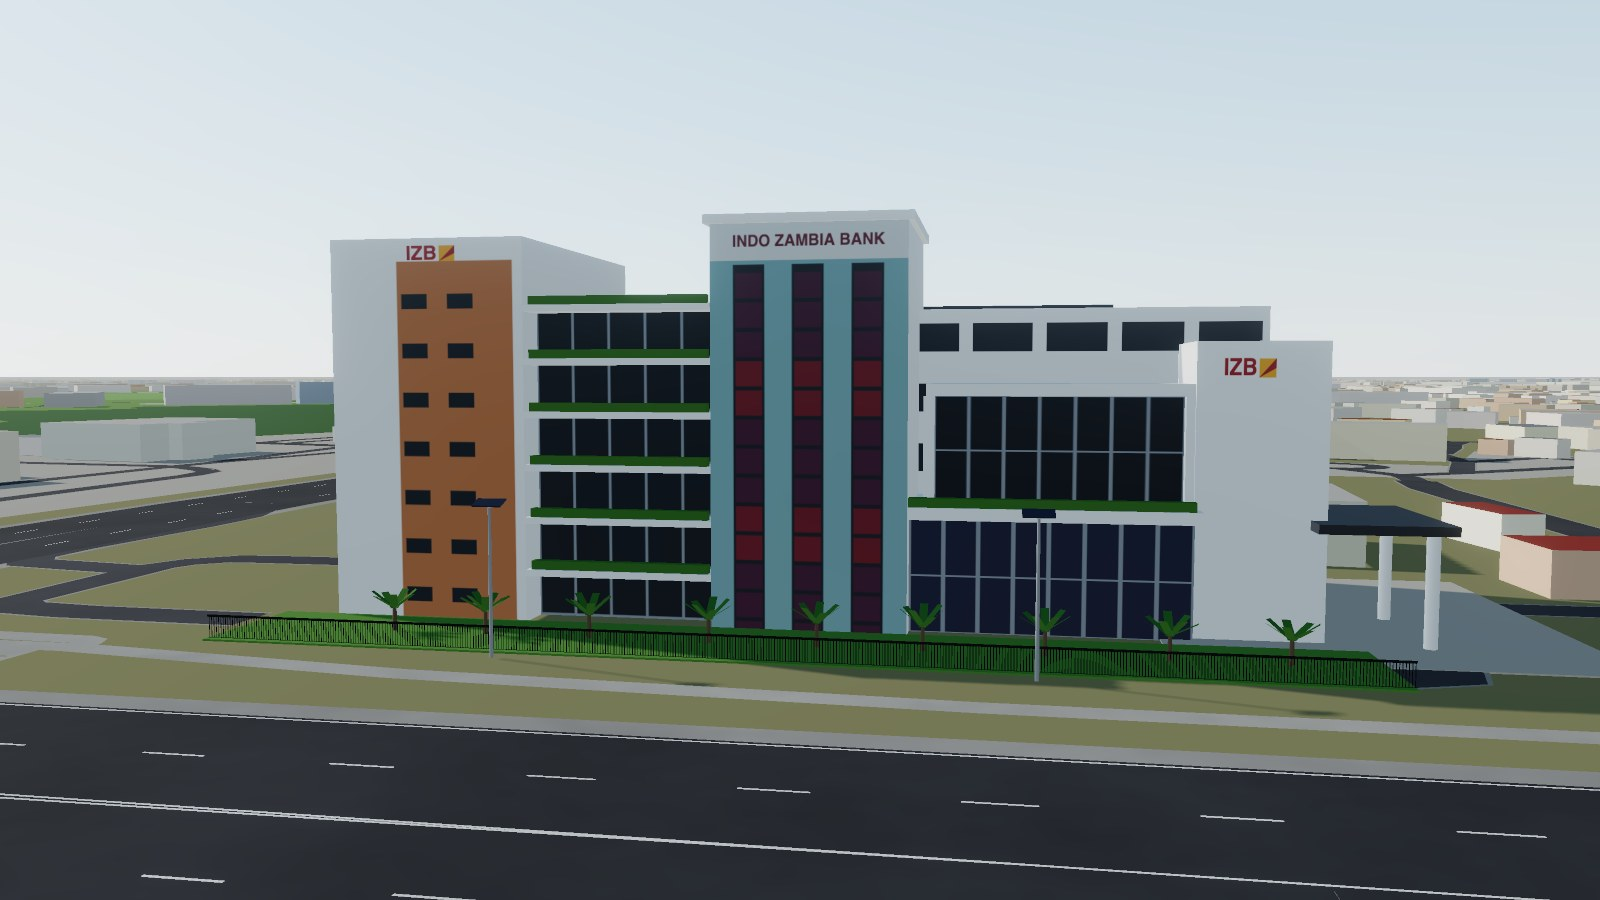
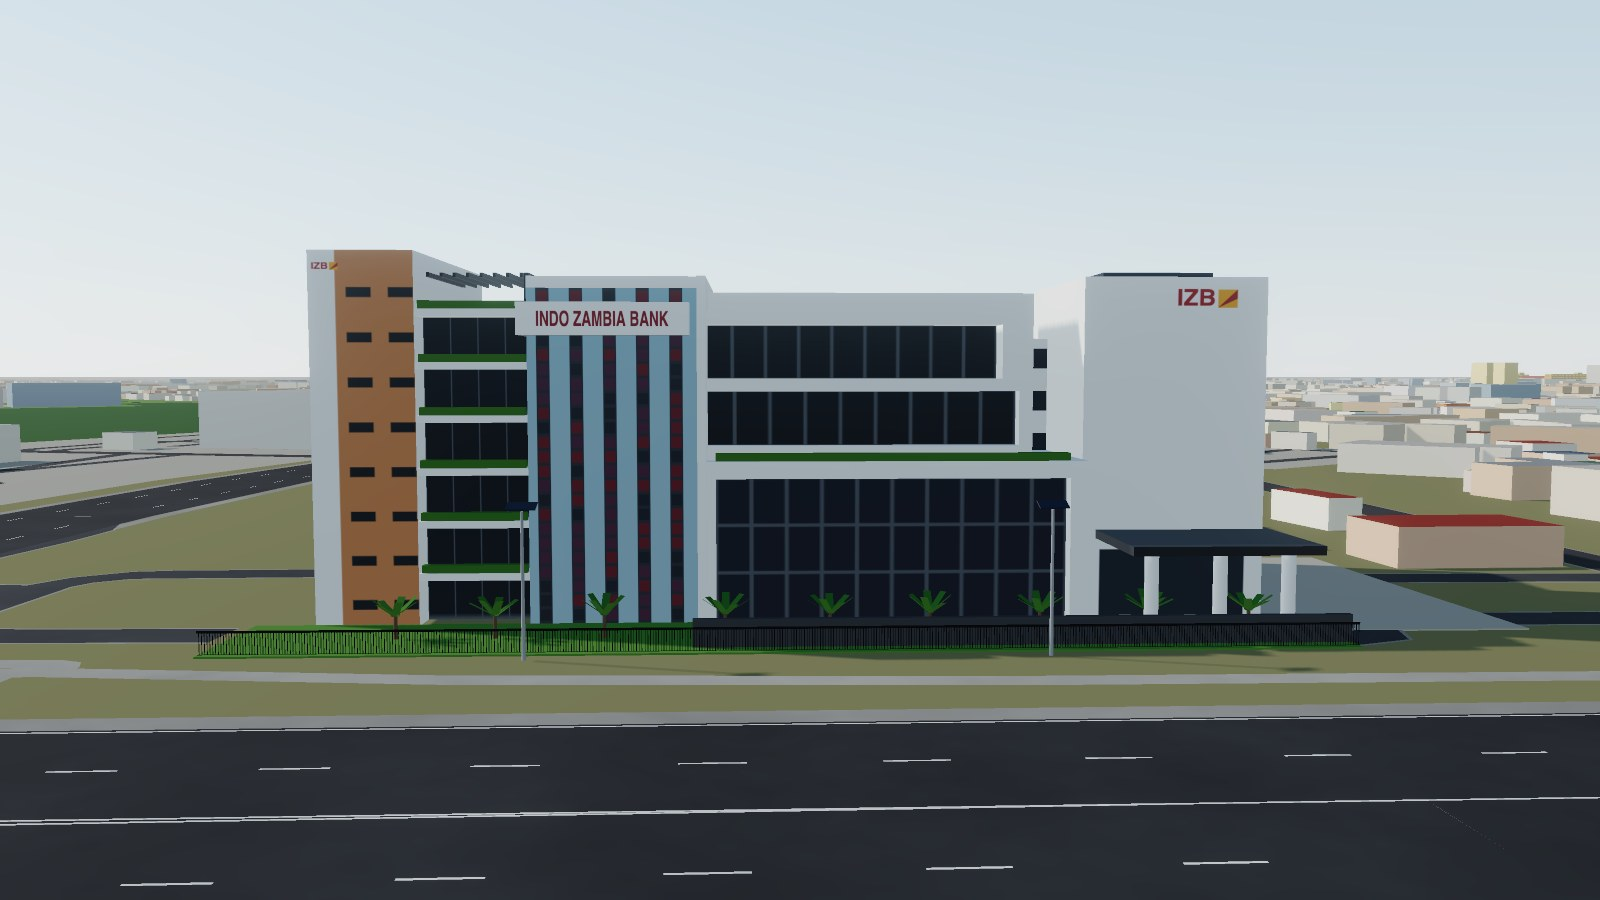
Indo Zambia Bank: rebuild to the street elevation in the founder's photos
Measure the front off the photos: a narrow tall terracotta corner block, the
terraced floors under a pergola, the blue tower with its projecting name band,
the wide glass block (a framed two-storey glass box under two cantilevered
trays of dark glazing), and the white entrance tower with the canopy in front
on three columns; add the dark boundary wall behind the railing.

diff --git a/src/landmarks/indo-zambia-bank.js b/src/landmarks/indo-zambia-bank.js
@@ -1,12 +1,14 @@
 // Indo Zambia Bank head office, corner of Great East Road and Addis Ababa
 // Drive, Rhodespark. A long building along Great East Road, stepping in
-// height. From the north-east (the Addis Ababa Drive junction): a white
-// corner block with a tall terracotta panel and the IZB logo (its end wall
-// facing the junction is white, split by a diagonal terracotta field);
-// terraced floors whose white slab edges carry planted hedges; a teal tower
-// with maroon-glazed window columns under the INDO ZAMBIA BANK fascia; a
-// lower glass block framed in white with a planted slab; and a white tower at
-// the south-west end over the entrance canopy.
+// height. From the north-east (the Addis Ababa Drive junction): a narrow
+// tall corner block, a white edge with the IZB logo and a tan terracotta face
+// with slot windows (its end wall is white, split by a diagonal terracotta
+// field); terraced floors of white slabs with hedges on their edges under a
+// slatted pergola; a tower of pale blue panels between columns of dark and
+// maroon glazing, with a projecting white INDO ZAMBIA BANK band; the widest
+// part, a two-storey glass box in a thick white frame with a hedge on top,
+// under two cantilevered white trays of dark glazing; and a white tower with
+// the IZB logo behind a dark canopy on white columns at the entrance.
 // A black railing, grass verge, palms and solar street lights line the road.
 // Sources: docs/landmarks/indo-zambia-bank.md.
 import * as THREE from 'three';
@@ -23,11 +25,13 @@ const ANGLE = 0.7206; // local +x = (0.752, -0.660) in world x/z
 const L = 66, D = 27, FLOOR = 3.6;
 
 // Front segments, u ranges along the road.
-// Seen from the road, north-east is on the left: the photos read right to left.
-const ENTRY = [0, 8], GLASS = [8, 26], TOWER = [26, 39], TERRACE = [39, 52], CORNER = [52, 66];
+// Seen from the road, north-east is on the left: the photos read right to
+// left. u ranges, measured off the founder's street elevation (~66 m).
+const ENTRY = [0, 13], GLASS = [13, 40], TOWER = [40, 51.5], TERRACE = [51.5, 59], CORNER = [59, 66];
 
-// ---------- textures (whole faces, UV 0..1; canvas y down) ----------
-const MAROON = '#7a2638', TEAL = '#8fbcc0', WHITE = '#f2f1ec', TERRA = '#c9804f';
+// ---------- textures (whole faces, UV 0..1; canvas y down; for a front
+// (-z) face the canvas left is the north-east end) ----------
+const WHITE = '#f2f1ec', TERRA = '#cf8c5a', BLUE = '#a8cfe0';
 
 function izbLogo(g, x, y, s) {
   g.fillStyle = '#b3242c';
@@ -46,24 +50,27 @@ function izbLogo(g, x, y, s) {
   g.fill();
 }
 function slots(g, x0, x1, y0, y1, rows, w) {
-  g.fillStyle = '#26303a';
+  g.fillStyle = '#2a2f36';
   for (let r = 0; r < rows; r++) {
-    const y = y0 + ((y1 - y0) * (r + 0.35)) / rows;
-    for (let x = x0 + 6; x + w < x1; x += w * 1.8) g.fillRect(x, y, w, (y1 - y0) / rows * 0.3);
+    const y = y0 + ((y1 - y0) * (r + 0.4)) / rows;
+    for (let x = x0 + 8; x + w < x1; x += w * 1.7) g.fillRect(x, y, w, ((y1 - y0) / rows) * 0.22);
   }
 }
-const swFront = () => canvasTex(256, 512, (g, w, h) => {
-  g.fillStyle = WHITE;
+const cornerFront = () => canvasTex(128, 512, (g, w, h) => {
+  g.fillStyle = TERRA;
   g.fillRect(0, 0, w, h);
-  g.fillStyle = TERRA; // the tall terracotta panel, with slot windows
-  g.fillRect(w * 0.35, h * 0.06, w * 0.6, h * 0.94);
-  slots(g, w * 0.35, w * 0.95, h * 0.1, h, 7, 34);
-  izbLogo(g, w * 0.4, h * 0.015, 26);
+  g.fillStyle = WHITE; // the white edge at the north-east corner
+  g.fillRect(0, 0, w * 0.26, h);
+  slots(g, w * 0.3, w, h * 0.05, h, 8, 30);
+  g.save();
+  g.translate(w * 0.13, h * 0.03);
+  izbLogo(g, -12, 0, 13);
+  g.restore();
 }, { repeat: false });
-const swEnd = () => canvasTex(512, 512, (g, w, h) => {
+const cornerEnd = () => canvasTex(512, 512, (g, w, h) => {
   g.fillStyle = WHITE;
   g.fillRect(0, 0, w, h);
-  g.fillStyle = TERRA; // diagonal field, lower right
+  g.fillStyle = TERRA;
   g.beginPath();
   g.moveTo(w, h * 0.05);
   g.lineTo(w, h);
@@ -74,45 +81,40 @@ const swEnd = () => canvasTex(512, 512, (g, w, h) => {
   izbLogo(g, w * 0.12, h * 0.08, 46);
 }, { repeat: false });
 const towerFront = () => canvasTex(256, 512, (g, w, h) => {
-  g.fillStyle = TEAL;
+  // pale blue panels between five columns of dark frames with maroon panes
+  g.fillStyle = BLUE;
   g.fillRect(0, 0, w, h);
-  g.fillStyle = WHITE;
-  g.fillRect(0, 0, w, h * 0.09);
-  g.fillStyle = MAROON;
-  g.font = 'bold 20px sans-serif';
-  g.textAlign = 'center';
-  g.textBaseline = 'middle';
-  g.fillText('INDO ZAMBIA BANK', w / 2, h * 0.045);
-  for (const x of [0.12, 0.42, 0.72]) {
-    g.fillStyle = '#2a2f3a';
-    g.fillRect(w * x, h * 0.1, w * 0.16, h * 0.9);
-    for (let y = h * 0.12; y < h; y += h / 14) {
-      g.fillStyle = (Math.floor(y) % 3) ? '#5b2a4a' : '#8c2a3a';
-      g.fillRect(w * x + 3, y, w * 0.16 - 6, h / 14 - 5);
+  const r = rng(8);
+  for (let c = 0; c < 5; c++) {
+    const x = 10 + c * 50;
+    g.fillStyle = '#39414c';
+    g.fillRect(x + 4, 0, 20, h);
+    for (let y = 4; y < h; y += 22) {
+      g.fillStyle = r() < 0.4 ? '#7b2c3c' : r() < 0.5 ? '#5d3552' : '#2b3340';
+      g.fillRect(x + 6, y, 16, 17);
     }
   }
 }, { repeat: false });
-const glazing = (tint = '#1f2a36', cols = 6, rows = 2) => canvasTex(256, 256, (g, w, h) => {
+const curtain = (cols, rows, tint = '#1d2632') => canvasTex(256, 128, (g, w, h) => {
   g.fillStyle = tint;
   g.fillRect(0, 0, w, h);
-  g.fillStyle = '#9aa4ad';
-  for (let c = 0; c <= cols; c++) g.fillRect((c * w) / cols - 2, 0, 4, h);
-  for (let r = 0; r <= rows; r++) g.fillRect(0, (r * h) / rows - 2, w, 4);
+  g.fillStyle = '#5d6772';
+  for (let c = 0; c <= cols; c++) g.fillRect((c * w) / cols - 1.5, 0, 3, h);
+  for (let r = 0; r <= rows; r++) g.fillRect(0, (r * h) / rows - 1.5, w, 3);
 }, { repeat: false });
-const neFront = () => canvasTex(256, 512, (g, w, h) => {
+const entryFront = () => canvasTex(256, 512, (g, w, h) => {
   g.fillStyle = WHITE;
   g.fillRect(0, 0, w, h);
-  izbLogo(g, w * 0.2, h * 0.05, 40);
+  izbLogo(g, w * 0.5, h * 0.03, 34);
+  g.fillStyle = '#2a3440'; // glazed ground floor behind the canopy
+  g.fillRect(w * 0.1, h * 0.8, w * 0.8, h * 0.2);
 }, { repeat: false });
-const officeSide = () => {
-  const t = canvasTex(128, 128, (g, w, h) => {
-    g.fillStyle = WHITE;
-    g.fillRect(0, 0, w, h);
-    g.fillStyle = '#2a3440';
-    g.fillRect(12, 30, w - 24, 60);
-  });
-  return t;
-};
+const officeSide = () => canvasTex(128, 128, (g, w, h) => {
+  g.fillStyle = WHITE;
+  g.fillRect(0, 0, w, h);
+  g.fillStyle = '#2a3440';
+  g.fillRect(12, 30, w - 24, 60);
+});
 
 export function buildIndoZambiaBank() {
   const group = new THREE.Group();
@@ -122,76 +124,99 @@ export function buildIndoZambiaBank() {
   const put = (m, conf, o) => group.add(tag(m, conf, o));
   const white = new THREE.MeshStandardMaterial({ color: 0xf2f1ec, roughness: 0.6 });
   const roof = new THREE.MeshStandardMaterial({ color: 0x9c9a94, roughness: 0.9 });
-  const hedge = new THREE.MeshStandardMaterial({ color: 0x4e7d2c, roughness: 1 });
+  const hedge = new THREE.MeshStandardMaterial({ color: 0x4e7d2c, roughness: 1, flatShading: true });
+  const dark = new THREE.MeshStandardMaterial({ color: 0x33373d, roughness: 0.5, metalness: 0.4 });
   const glows = [];
   const glow = (tex, o) => {
-    const m = glowing(tex, { roughness: 0.3, metalness: 0.3, ...o });
+    const m = glowing(tex, { roughness: 0.2, metalness: 0.4, ...o });
     glows.push(m);
     return m;
   };
-  // a box between u0..u1, v0..v1, y0..y1 with per-face materials
-  // [+x, -x, top, bottom, +z (back), -z (front)]
+  // box over u0..u1, v0..v1, y0..y1; materials [+x, -x, top, bottom, +z, -z(front)]
   const box = (u0, u1, v0, v1, y0, y1, mats) => {
     const m = new THREE.Mesh(new THREE.BoxGeometry(u1 - u0, y1 - y0, v1 - v0), mats);
     m.position.set((u0 + u1) / 2, (y0 + y1) / 2, (v0 + v1) / 2);
     return m;
   };
-  const faces = (front, rest = white, top = roof) => [rest, rest, top, top, rest, front];
+  const front = (mat, rest = white) => [rest, rest, roof, roof, rest, mat];
+  const hedgeOn = (u0, u1, v, y) => put(box(u0 + 0.2, u1 - 0.2, v, v + 0.7, y, y + 0.55, hedge), 'high');
 
-  // the body behind the front blocks, with office windows
+  // the body behind, with office windows
   const side = officeSide();
-  side.repeat.set(12, 5);
+  side.repeat.set(12, 6);
   const body = new THREE.MeshStandardMaterial({ map: side, roughness: 0.7 });
-  put(box(2, L - 2, 10, D, 0, 6 * FLOOR, [body, body, roof, roof, body, body]), 'med');
+  put(box(2, L - 2, 12, D, 0, 20, [body, body, roof, roof, body, body]), 'med');
 
-  // north-east corner block: terracotta panel, diagonal end wall facing the junction
-  const swH = 7 * FLOOR + 1;
-  put(box(CORNER[0], CORNER[1], 0, 22, 0, swH, [new THREE.MeshStandardMaterial({ map: swEnd(), roughness: 0.7 }), white, roof, roof, white, new THREE.MeshStandardMaterial({ map: swFront(), roughness: 0.7 })]), 'high');
+  // north-east corner block: the tallest part
+  const cH = 25.5;
+  put(box(CORNER[0], CORNER[1], 0, 20, 0, cH, [new THREE.MeshStandardMaterial({ map: cornerEnd(), roughness: 0.7 }), white, roof, roof, white, new THREE.MeshStandardMaterial({ map: cornerFront(), roughness: 0.7 })]), 'high');
 
-  // terraced floors: recessed glazing, white slabs with hedges on their edges
+  // terraced floors: recessed glazing, white slabs with hedges, pergola on top
   const tH = 6 * FLOOR;
-  put(box(TERRACE[0], TERRACE[1], 2.5, 12, 0, tH, faces(glow(glazing('#1d2833', 5, 6)))), 'high');
+  put(box(TERRACE[0], TERRACE[1], 2.2, 12, 0, tH, front(glow(curtain(4, 6)))), 'high');
   for (let f = 1; f <= 6; f++) {
     const y = f * FLOOR;
-    put(box(TERRACE[0], TERRACE[1], 0, 2.6, y - 0.45, y, white), 'high');
-    put(box(TERRACE[0] + 0.3, TERRACE[1] - 0.3, 0.2, 0.9, y, y + 0.6, hedge), 'high');
+    put(box(TERRACE[0], TERRACE[1], 0, 2.4, y - 0.5, y, white), 'high');
+    hedgeOn(TERRACE[0], TERRACE[1], 0.1, y);
   }
+  for (let u = TERRACE[0] + 0.4; u < TERRACE[1]; u += 0.9) put(box(u, u + 0.2, 1, 11, tH + 2.2, tH + 2.5, dark), 'med'); // pergola slats
+  put(box(TERRACE[0], TERRACE[0] + 0.3, 1, 11, tH, tH + 2.5, dark), 'med');
 
-  // teal tower with maroon window columns and the name fascia
-  const towerH = 7 * FLOOR + 1.5;
-  put(box(TOWER[0], TOWER[1], 0, 14, 0, towerH, faces(glow(towerFront()))), 'high');
-  put(box(TOWER[0] - 0.4, TOWER[1] + 0.4, -0.3, 14, towerH, towerH + 0.6, white), 'high');
+  // tower: pale blue panels and window columns, projecting name band
+  const twH = 23;
+  put(box(TOWER[0], TOWER[1], 0, 14, 0, twH, front(glow(towerFront()))), 'high');
+  const band = canvasTex(512, 64, (g, w, h) => {
+    g.fillStyle = WHITE;
+    g.fillRect(0, 0, w, h);
+    g.fillStyle = '#9a2433';
+    g.font = 'bold 40px sans-serif';
+    g.textAlign = 'center';
+    g.textBaseline = 'middle';
+    g.fillText('INDO ZAMBIA BANK', w / 2, h / 2 + 2);
+  }, { repeat: false });
+  put(box(TOWER[0] + 0.5, TOWER[1] + 0.5, -1.2, 3, twH - 3.2, twH - 1, front(new THREE.MeshStandardMaterial({ map: band, roughness: 0.6 }))), 'high');
+  put(box(TOWER[0], TOWER[1], 0, 14, twH, twH + 0.8, white), 'high');
+  put(box(TOWER[0] - 0.6, TOWER[0], -0.6, 14, 0, twH + 0.8, white), 'high'); // white fin on its south-west edge
 
-  // lower glass block: tall glazed ground floor, planted slab, two floors
-  // of dark glazing set back in a white frame
-  put(box(GLASS[0], GLASS[1], 1.5, 16, 0, 7.5, faces(glow(glazing('#2b3350', 8, 2)))), 'high');
-  put(box(GLASS[0] - 0.4, GLASS[1] + 0.4, 0.5, 16, 7.5, 8.3, white), 'high');
-  put(box(GLASS[0], GLASS[1], 0.7, 1.5, 8.3, 8.9, hedge), 'high');
-  put(box(GLASS[0] + 0.5, GLASS[1] - 1.5, 3, 16, 8.3, 15.5, faces(glow(glazing('#1b2430', 7, 2)))), 'high');
-  put(box(GLASS[0], GLASS[1] - 1, 2.2, 16, 15.5, 16.3, white), 'high');
-  for (const u of [GLASS[0] + 0.2, GLASS[1] - 1.2]) put(box(u - 0.35, u + 0.35, 2.2, 3, 8.3, 15.5, white), 'high'); // frame
+  // the glass block: a two-storey glass box in a thick white frame with a
+  // hedge on top, and two cantilevered white trays of dark glazing above
+  const [g0, g1] = GLASS;
+  put(box(g0 + 1.2, g1 - 1.2, 1.2, 16, 0, 10, front(glow(curtain(10, 3, '#222c3d')))), 'high');
+  put(box(g0, g0 + 1.2, 0, 16, 0, 11.2, white), 'high');
+  put(box(g1 - 1.2, g1, 0, 16, 0, 11.2, white), 'high');
+  put(box(g0, g1, 0, 16, 10, 11.2, white), 'high');
+  hedgeOn(g0 + 1, g1 - 1, 0.2, 11.2);
+  const tray = (y0, y1, over, u0) => {
+    put(box(u0, g1, 2.5, 16, y0, y1, front(glow(curtain(9, 1)))), 'high');
+    put(box(u0 - 0.6, g1 + 0.3, 2.5 - over, 16, y1, y1 + 0.9, white), 'high'); // slab over
+    put(box(u0 - 0.6, u0, 2.5 - over, 16, y0, y1, white), 'high'); // end cheek
+  };
+  put(box(g0 + 4, g1, 1.5, 16, 11.2, 12.2, white), 'high');
+  tray(12.2, 16, 1.2, g0 + 4.6);
+  tray(16.9, 20.6, 2.2, g0 + 6);
+  put(box(g0 + 3, g1, 4, 16, 11.2, 23, white), 'high'); // white volume behind the trays
 
-  // south-west tower over the entrance, with its dark canopy on columns
-  const neH = 5 * FLOOR + 1;
-  put(box(ENTRY[0], ENTRY[1], 2, 16, 0, neH, faces(new THREE.MeshStandardMaterial({ map: neFront(), roughness: 0.7 }))), 'high');
-  const canopy = new THREE.MeshStandardMaterial({ color: 0x3b3f45, roughness: 0.5, metalness: 0.4 });
-  put(box(ENTRY[0] - 7, ENTRY[0] + 1, 0, 12, 7.2, 7.8, canopy), 'high');
-  const col = new THREE.CylinderGeometry(0.4, 0.4, 7.2, 14);
-  for (const v of [1.5, 10.5]) {
+  // south-west entrance tower with the IZB logo, dark canopy on white columns
+  const eH = 24;
+  put(box(ENTRY[0], ENTRY[1], 1.5, 18, 0, eH, front(glow(entryFront(), { roughness: 0.6, metalness: 0 }))), 'high');
+  put(box(ENTRY[0] - 0.5, ENTRY[1] - 1, -7, 3, 5.6, 6.2, dark), 'high');
+  const col = new THREE.CylinderGeometry(0.45, 0.45, 5.6, 16);
+  for (const u of [1.5, 6, 10.5]) {
     const c = new THREE.Mesh(col, white);
-    c.position.set(ENTRY[0] - 6, 3.6, v);
+    c.position.set(u, 2.8, -6);
     put(c, 'high');
   }
-  // paved forecourt at the entrance
   put(box(-16, ENTRY[1] + 2, -4, D, 0, 0.1, new THREE.MeshStandardMaterial({ color: 0xb9b2a4, roughness: 0.95 })), 'med', { cast: false });
 
   // solar panels on the roofs (from the aerial)
   const panel = new THREE.MeshStandardMaterial({ color: 0x1c2a44, roughness: 0.3, metalness: 0.5 });
-  put(box(CORNER[0] + 4, CORNER[1] - 2, 4, 20, swH + 0.2, swH + 0.5, panel), 'med', { cast: false });
-  put(box(12, 50, 15, 25, 6 * FLOOR + 0.2, 6 * FLOOR + 0.5, panel), 'med', { cast: false });
+  put(box(3, 11, 4, 16, eH + 0.2, eH + 0.5, panel), 'med', { cast: false });
+  put(box(16, 48, 14, 24, 20.2, 20.5, panel), 'med', { cast: false });
 
-  // along the road: grass verge, black railing, palms, solar street lights
+  // along the road: grass verge, a dark boundary wall behind a black railing,
+  // small fan palms, solar street lights
   put(box(-2, L + 4, -9, 0, 0, 0.12, new THREE.MeshStandardMaterial({ color: 0x5f8f38, roughness: 1 })), 'med', { cast: false });
+  put(box(-2, 40, -7.6, -7.2, 0, 1.9, new THREE.MeshStandardMaterial({ color: 0x4a4c50, roughness: 0.9 })), 'high');
   const railTex = canvasTex(128, 32, (g, w, h) => {
     g.fillStyle = '#1b1c1e';
     g.fillRect(0, 0, w, 3);
@@ -206,7 +231,6 @@ export function buildIndoZambiaBank() {
   const trunk = new THREE.MeshStandardMaterial({ color: 0x6e5a45, roughness: 1 });
   const frond = new THREE.MeshStandardMaterial({ color: 0x4d7f2e, roughness: 1, side: THREE.DoubleSide });
   for (let u = 3; u < L; u += 7) {
-    // small fan palms, as in the photos
     const p = new THREE.Group();
     const t = new THREE.Mesh(new THREE.CylinderGeometry(0.12, 0.16, 1.6, 6), trunk);
     t.position.y = 0.8;

diff --git a/src/landmarks/index.js b/src/landmarks/index.js
@@ -107,7 +107,7 @@ const REGISTRY = [
     name: 'Indo Zambia Bank',
     build: buildIndoZambiaBank,
     // from across Great East Road, as in the founder's street photos
-    view: (lm) => local(lm.frame, [20, 6, -75], [33, 12, 0]),
+    view: (lm) => local(lm.frame, [36, 5, -80], [33, 12, 0]),
   },
   {
     name: 'Pyramid Tower',

diff --git a/docs/landmarks/indo-zambia-bank.md b/docs/landmarks/indo-zambia-bank.md
@@ -20,13 +20,13 @@ just south-west of Manda Hill. Model: `src/landmarks/indo-zambia-bank.js`.
 
 | Element | Value | Confidence |
 |---|---|---|
-| Plan | ~66 × 27 m along Great East Road, front facing north-west | medium (aerial, footprint) |
-| North-east corner block | 14 m of front, 26 m high (7 floors); tall terracotta panel with slot windows and the IZB logo; end wall to the junction white with a diagonal terracotta field | high form (photos), medium sizes |
-| Terraced floors | 6 floors of recessed dark glazing behind white slabs with planted hedges on their edges | high form |
-| Tower | 13 m wide, 7 floors; teal panels, three columns of maroon glazing, white INDO ZAMBIA BANK fascia | high form |
-| Glass block | 7.5 m glazed ground floor, planted slab, two floors of dark glazing set back in a white frame | high form |
-| South-west tower | white, 5 floors, IZB logo; dark entrance canopy on white columns over the forecourt | high form, medium sizes |
-| Street | grass verge, black railing, small fan palms, solar street lights | high form |
+| Plan | ~66 × 27 m along Great East Road, front facing north-west; front widths measured off the founder's street elevation | medium (aerial, photo) |
+| North-east corner block | 7 m of front, 25.5 m, the tallest part: a white edge with the IZB logo and a tan terracotta face with slot windows; end wall to the junction white with a diagonal terracotta field | high form (photos), medium sizes |
+| Terraced floors | 7.5 m of front: six white slabs with hedges on their edges over recessed glazing, a slatted pergola on top | high form |
+| Tower | 11.5 m, 23 m high: pale blue panels between five columns of dark and maroon glazing; a projecting white band with INDO ZAMBIA BANK; a white fin on its south-west edge | high form |
+| Glass block | 27 m, the widest part: a two-storey glass box (10 m) in a thick white frame with a hedge on top, under two cantilevered white trays of dark glazing (the upper overhanging more) and a white volume behind | high form, medium sizes |
+| Entrance tower | 13 m, 24 m high, white with the IZB logo; dark flat canopy on three white columns over the entrance | high form |
+| Street | grass verge, dark boundary wall and black railing, small fan palms, solar street lights | high form |
 
 ## Known gaps
 
